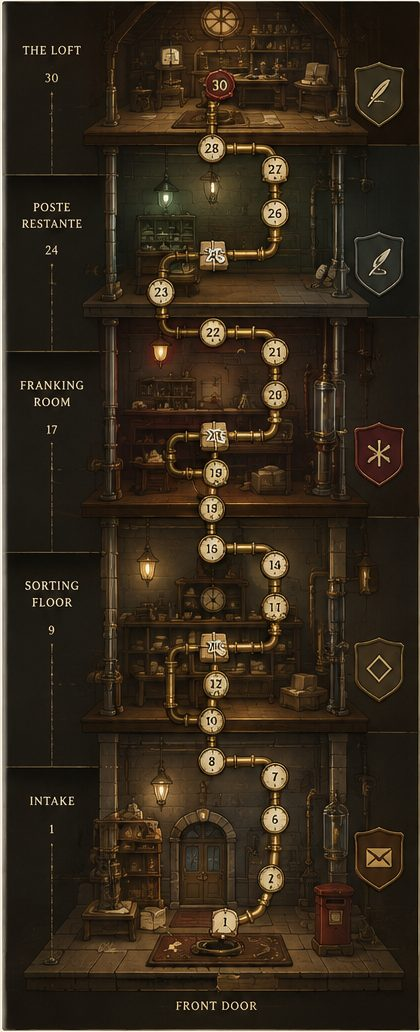
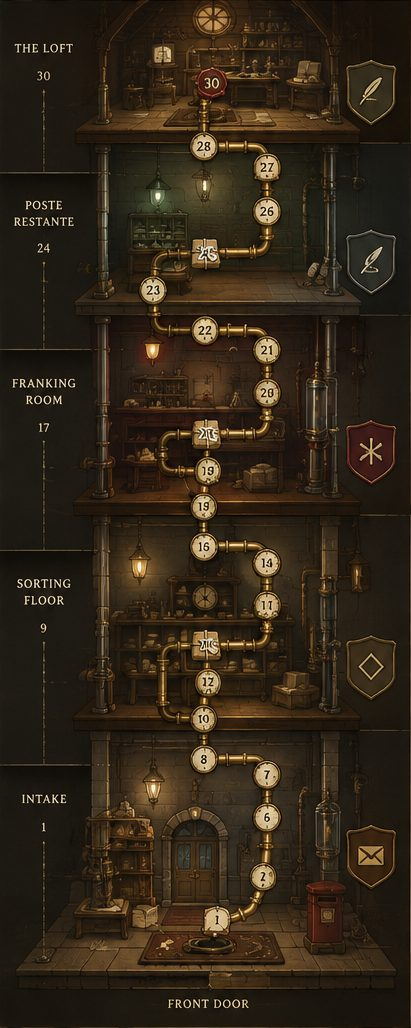
Quest map polish from on-device feedback
- theme-color was hard-coded to the paper cream, so the iOS status bar kept a
  cream cap over the dark quest screens. It now follows the active screen,
  set alongside the body background, and reverts on the way out.
- The shipped mural carried the artwork's own parchment frame — an 8px cream
  edge reading as colour bleed down the left and along the bottom. The frame
  is cropped off at export and every anchor and cover shifts with it.
- More room for the map: the quest HUD packs goal and keepsake parts into one
  row (~70px returned to the viewport), sorting-hall tiles slim to the size
  of the painted tiles, and locked stops trade near-black charcoal for the
  reference sheet's parchment grey — the heavy dark blobs were most of what
  made the chains read as crushed.

diff --git a/content/generate-clockwork-post.ts b/content/generate-clockwork-post.ts
@@ -184,7 +184,7 @@ const quest: TournamentDef = {
   schemaVersion: CONTENT_SCHEMA_VERSION,
   id: 'clockwork-post',
   name: 'The Clockwork Post',
-  version: 10,
+  version: 11,
   goal: 'Rebuild the letter scale',
   setup: {
     levelCount: LEVEL_COUNT,
@@ -240,51 +240,54 @@ const quest: TournamentDef = {
       style: 'interior',
       doorArt: 'assets/clockwork-post/walls/front-door.jpg',
       loftArt: 'assets/clockwork-post/walls/loft.jpg',
+      // The shipped image is cropped (8,2) to shave the artwork's own frame,
+      // so every coordinate below is authored in original strip space and
+      // shifted here.
       mural: {
         image: 'assets/clockwork-post/map.jpg',
-        width: 420,
-        height: 1032,
+        width: 411,
+        height: 1028,
         // Route order up the building; discs cover the painted ones, halls
         // cover the painted junction tiles, parcels sit on painted crates,
         // and the wax seal at the top keeps the painting's own face.
         anchors: [
-          { x: 224, y: 920 },                    // 1  The Slot — on the doormat pedestal
-          { x: 150, y: 908, kind: 'parcel' },    // 2  on the intake table
-          { x: 272, y: 876 },                    // 3  painted "2"
-          { x: 273, y: 819 },                    // 4  painted "6"
-          { x: 275, y: 776 },                    // 5  painted "7"
-          { x: 211, y: 761, kind: 'hall' },      // 6  Sorting Hall I — painted "8"
-          { x: 210, y: 719 },                    // 7  painted "10"
-          { x: 214, y: 686 },                    // 8  painted "12"
-          { x: 318, y: 683, kind: 'parcel' },    // 9  on the sorting crates
-          { x: 211, y: 644, kind: 'hall' },      // 10 Sorting Hall II — painted tile
-          { x: 273, y: 607 },                    // 11 painted "11"
-          { x: 273, y: 564 },                    // 12 painted "14"
-          { x: 209, y: 550 },                    // 13 painted "16"
-          { x: 209, y: 509 },                    // 14 painted "19", lower
-          { x: 216, y: 472 },                    // 15 painted "19", upper
-          { x: 298, y: 477, kind: 'parcel' },    // 16 on the franking crates
-          { x: 332, y: 484, kind: 'parcel' },    // 17 beside them
-          { x: 216, y: 434, kind: 'hall' },      // 18 Sorting Hall III — painted tile
-          { x: 273, y: 395 },                    // 19 painted "20"
-          { x: 273, y: 352 },                    // 20 painted "21"
-          { x: 244, y: 332 },                    // 21 on the top run
-          { x: 211, y: 333 },                    // 22 painted "22"
-          { x: 161, y: 291 },                    // 23 painted "23"
-          { x: 333, y: 276, kind: 'parcel' },    // 24 on the restante sacks
-          { x: 214, y: 254, kind: 'hall' },      // 25 Sorting Hall IV — painted tile
-          { x: 274, y: 252 },                    // 26 on the elbow
-          { x: 274, y: 212 },                    // 27 painted "26"
-          { x: 275, y: 169 },                    // 28 painted "27"
-          { x: 209, y: 148 },                    // 29 painted "28"
-          { x: 218, y: 84, kind: 'seal' },       // 30 The Golden Scale — the wax
+          { x: 216, y: 918 },                    // 1  The Slot — on the doormat pedestal
+          { x: 142, y: 906, kind: 'parcel' },    // 2  on the intake table
+          { x: 264, y: 874 },                    // 3  painted "2"
+          { x: 265, y: 817 },                    // 4  painted "6"
+          { x: 267, y: 774 },                    // 5  painted "7"
+          { x: 203, y: 759, kind: 'hall' },      // 6  Sorting Hall I — painted "8"
+          { x: 202, y: 717 },                    // 7  painted "10"
+          { x: 206, y: 684 },                    // 8  painted "12"
+          { x: 310, y: 681, kind: 'parcel' },    // 9  on the sorting crates
+          { x: 203, y: 642, kind: 'hall' },      // 10 Sorting Hall II — painted tile
+          { x: 265, y: 605 },                    // 11 painted "11"
+          { x: 265, y: 562 },                    // 12 painted "14"
+          { x: 201, y: 548 },                    // 13 painted "16"
+          { x: 201, y: 507 },                    // 14 painted "19", lower
+          { x: 208, y: 470 },                    // 15 painted "19", upper
+          { x: 290, y: 475, kind: 'parcel' },    // 16 on the franking crates
+          { x: 324, y: 482, kind: 'parcel' },    // 17 beside them
+          { x: 208, y: 432, kind: 'hall' },      // 18 Sorting Hall III — painted tile
+          { x: 265, y: 393 },                    // 19 painted "20"
+          { x: 265, y: 350 },                    // 20 painted "21"
+          { x: 236, y: 330 },                    // 21 on the top run
+          { x: 203, y: 331 },                    // 22 painted "22"
+          { x: 153, y: 289 },                    // 23 painted "23"
+          { x: 325, y: 274, kind: 'parcel' },    // 24 on the restante sacks
+          { x: 206, y: 252, kind: 'hall' },      // 25 Sorting Hall IV — painted tile
+          { x: 266, y: 250 },                    // 26 on the elbow
+          { x: 266, y: 210 },                    // 27 painted "26"
+          { x: 267, y: 167 },                    // 28 painted "27"
+          { x: 201, y: 146 },                    // 29 painted "28"
+          { x: 210, y: 82, kind: 'seal' },       // 30 The Golden Scale — the wax
         ],
         // The rail's painted room-start numbers, updated to the real ones.
         covers: [
-          { x: 57, y: 634, text: '7' },
-          { x: 55, y: 424, text: '15' },
-          { x: 52, y: 244, text: '23' },
-          { x: 52, y: 75, text: '29' },
+          { x: 49, y: 632, text: '7' },
+          { x: 47, y: 422, text: '15' },
+          { x: 44, y: 242, text: '23' },
+          { x: 44, y: 73, text: '29' },
         ],
       },
       rooms: {

diff --git a/apps/game/src/QuestMap.svelte b/apps/game/src/QuestMap.svelte
@@ -837,7 +837,7 @@
               {#if done}<span class="seal-ring" style="border-color:{map.pathBehind}"></span>{/if}
             </button>
           {:else if kind === 'hall'}
-            <button class="press-tile" class:lit={done} class:locked style="width:{d + 8}px;height:{d + 8}px" disabled={locked} onclick={() => onSelect(i)} aria-label={aria}>
+            <button class="press-tile" class:lit={done} class:locked style="width:{d + 2}px;height:{d + 2}px" disabled={locked} onclick={() => onSelect(i)} aria-label={aria}>
               <span class="tile-lever"><span class="tile-knob"></span></span>
               {done ? partGlyphs[level.partIndex ?? 0] : i + 1}
             </button>
@@ -1614,6 +1614,17 @@
     font-size: 13px;
   }
 
+  .mural-disc.locked {
+    border-color: #7d7264;
+    background: radial-gradient(circle at 36% 30%, #b3a893, #918673 62%, #746b5a);
+    box-shadow: inset 0 -2px 3px rgba(0, 0, 0, 0.3), 0 2px 5px rgba(0, 0, 0, 0.4);
+    opacity: 1;
+  }
+
+  .mural-disc.locked .num {
+    color: #3d372c;
+  }
+
   .mural-parcel {
     box-shadow: 0 3px 8px rgba(0, 0, 0, 0.5);
   }
@@ -1645,7 +1656,14 @@
   }
 
   .press-tile.locked {
-    filter: saturate(0.35) brightness(0.6);
+    border-color: #7d7264;
+    background: linear-gradient(150deg, #b3a893, #948a76 55%, #7a715f);
+    color: #3d372c;
+  }
+
+  .press-tile.locked .tile-lever,
+  .press-tile.locked .tile-knob {
+    background: #7d7264;
   }
 
   .tile-lever {

diff --git a/apps/game/src/App.svelte b/apps/game/src/App.svelte
@@ -30,7 +30,13 @@
   });
 
   $effect(() => {
-    document.body.style.backgroundColor = app.variant ? app.variant.boardLine : '';
+    // The browser paints the status bar from theme-color, not from our shell,
+    // so both must follow the active screen or the quest keeps a cream cap.
+    const bar = app.variant ? app.variant.boardLine : '';
+    document.body.style.backgroundColor = bar;
+    document
+      .querySelector('meta[name="theme-color"]')
+      ?.setAttribute('content', bar || '#f6f1e7');
   });
 
   const timeLabel = $derived(
@@ -247,7 +253,7 @@
     {:else if app.view === 'orbitHome'}
       {#if quest}
       <div class="quest-hud">
-        <p class="goal">{quest.goal} · {orbitDone} / {quest.setup.levelCount}</p>
+        <p class="goal">{quest.goal} · {orbitDone}/{quest.setup.levelCount}</p>
         <div class="parts">
           {#each quest.collectible.partGlyphs as glyph, p (p)}
             {@const path = quest.collectible.partPaths?.[p]}
@@ -599,10 +605,22 @@
   .quest-hud {
     width: 100%;
     display: flex;
-    flex-direction: column;
     align-items: center;
-    gap: 8px;
-    padding: 10px 16px 12px;
+    justify-content: center;
+    flex-wrap: wrap;
+    gap: 6px 14px;
+    padding: 8px 16px;
+  }
+
+  .quest-hud .part {
+    width: 34px;
+    height: 34px;
+    font-size: 14px;
+  }
+
+  .quest-hud .part svg {
+    width: 16px;
+    height: 16px;
   }
 
   .goal {
